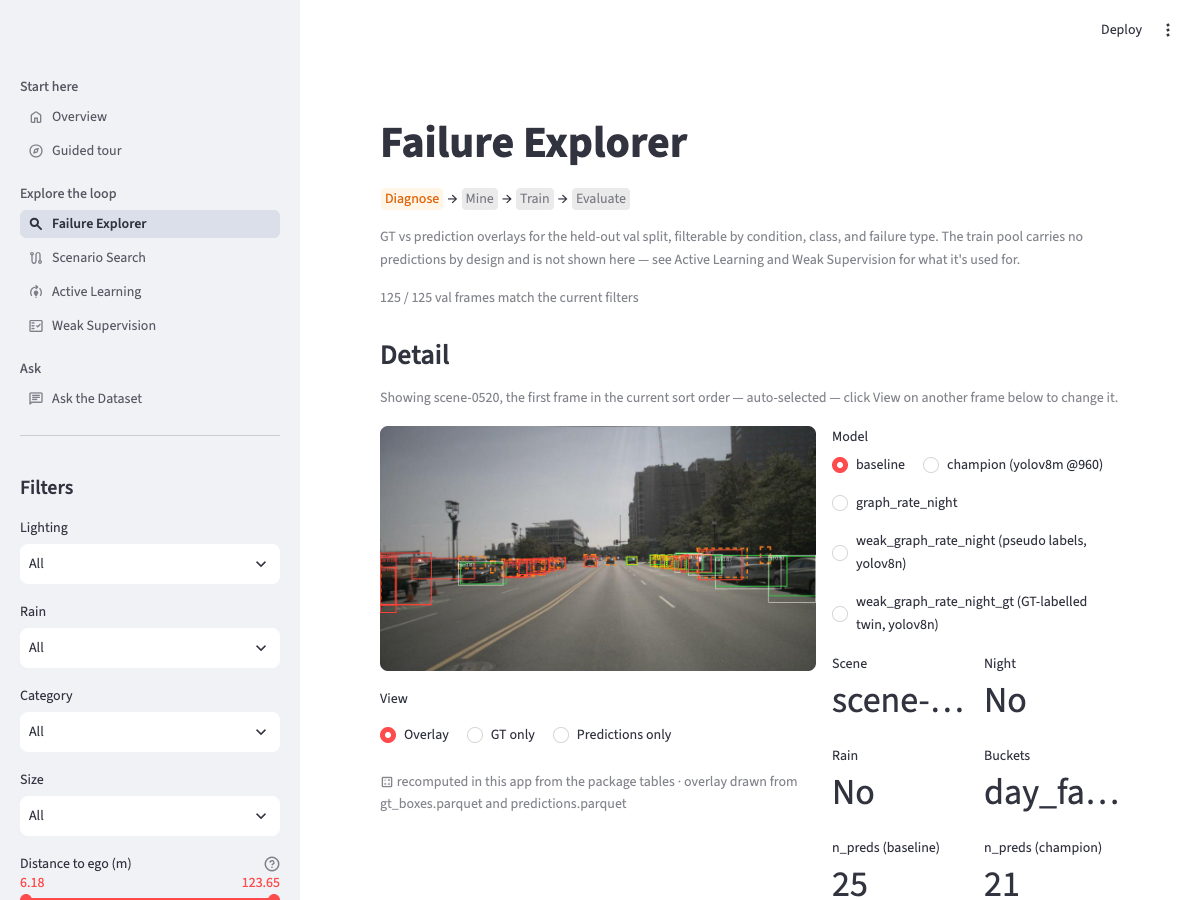
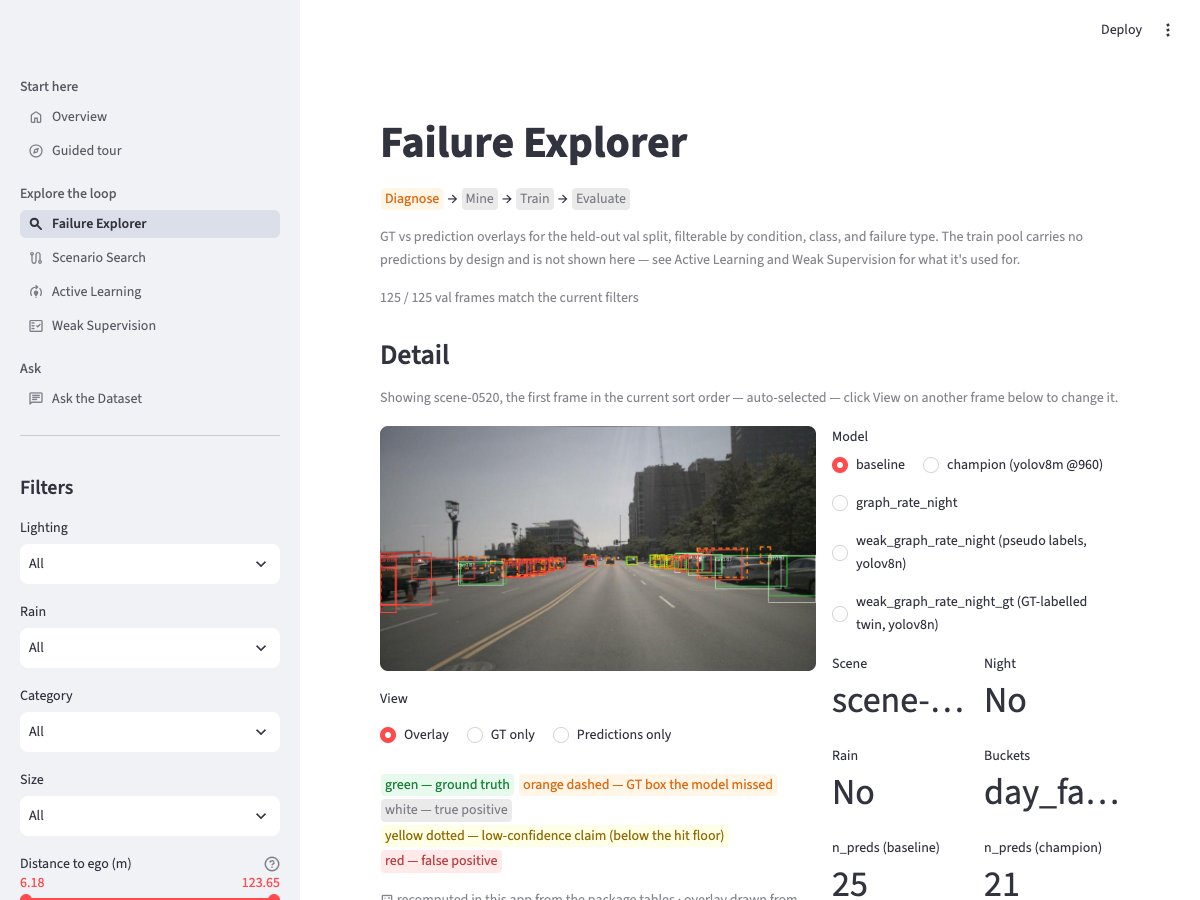
demo: Phase 10 screenshots (story tour, legend sites) + success-walk stamps + README phase row

Changed region(s): [[0.3083, 0.84, 0.6475, 0.9644], [0.3083, 0.9956, 0.6783, 1.0]]

diff --git a/docs/DEMO.md b/docs/DEMO.md
@@ -734,16 +734,16 @@ deployed URL.
 
 | # | Question (DEMO_PLAN.md) | Page | Section / element that answers it | Status |
 |---|---|---|---|---|
-| 1 | What problem does the project solve? | Overview + Guided tour | the loop strip ("Detect weakness → Find useful data → Retrain → Measure impact") and tour step 1, **We found a blind spot** | local: 2026-08-22 · live: pending |
+| 1 | What problem does the project solve? | Overview + Guided tour | the loop strip ("Detect weakness → Find useful data → Retrain → Measure impact") and tour step 1, **We found a blind spot** | local: 2026-08-23 · live: pending |
 | 2 | Where does the baseline perception model fail? | Guided tour + Failure Explorer | tour step 2, **What the failure looks like** (the hero frame, per-model claims, badge legend), and Failure Explorer's **Detail** — now the first block on the page, auto-selected, with the **Model** radio and the GT / Predictions / Overlay toggle beside the image | local: 2026-08-23 · live: pending |
-| 3 | How does the system find difficult data? | Guided tour + Scenario Search | tour step 3, **Where else does this happen?** (the flagship event, and the sentence saying the search matches driving context — not similar-looking images), and the six **preset** buttons + ranked card grid | local: 2026-08-22 · live: pending |
+| 3 | How does the system find difficult data? | Guided tour + Scenario Search | tour step 3, **Where else does this happen?** (the flagship event, and the sentence saying the search matches driving context — not similar-looking images), and the six **preset** buttons + ranked card grid | local: 2026-08-23 · live: pending |
 | 4 | Why is the graph useful? | Scenario Search | the compact `parity_short` line in the event viewer header (visible once an event is opened — flagship 30 events found · SQL 30 / Graph 30 ✓), and the same viewer's **Interactive graph** panel, whose **Reveal the matched path** slider walks Scene → Keyframe → nearest matching objects → Ego pose one step at a time (amber = revealed, hollow = still to come) | local: 2026-08-23 · live: pending |
 | 5 | What does CAN-bus data add? | Scenario Search (+ Overview) | the event viewer's two **CAN curves** beside the frame (speed km/h + longitudinal accel m/s² over t−2…t+2, the rule following the filmstrip slider), the **CAN speed** card in the metric grid, and the filmstrip's own ego-pose readout; Overview's **CAN speed vs ego-motion** card (r), inside the **Dataset scale & data checks** expander | local: 2026-08-23 · live: pending |
 | 6 | How does active learning choose frames? | Guided tour + Active Learning | tour step 4, **What data should we add?** (the reason chips and the one-line selection path, with the `selection_factors` lines inside the **How selection works** fold), and the deep page's **Three ways to pick 1,500 frames** strategy charts plus the **Why was this frame selected?** panel, whose reason chips head the factor lines | local: 2026-08-23 · live: pending |
-| 7 | Did targeted retraining improve performance? | Guided tour + Active Learning | tour steps 5-6, **We changed the training data** (the five-strategy night-Δ chart, its fairness statement and the computed best-intervention sentence) / **Did it fix the failure?** (the side-by-side before/after exemplar and the night-pedestrian gain), plus the deep page's **Every arm, one chart** (13 arms in round order) and **Before / after** exemplars | local: 2026-08-22 · live: pending |
+| 7 | Did targeted retraining improve performance? | Guided tour + Active Learning | tour steps 5-6, **We changed the training data** (the five-strategy night-Δ chart, its fairness statement and the computed best-intervention sentence) / **Did it fix the failure?** (the side-by-side before/after exemplar and the night-pedestrian gain), plus the deep page's **Every arm, one chart** (13 arms in round order) and **Before / after** exemplars | local: 2026-08-23 · live: pending |
 | 8 | How well did VLM-generated supervision work? | Weak Supervision | the retention cards (GT gain retained + verifier retention), **One frame, three views** (what the VLM's counts kept on a train-pool frame, and what the weak-trained checkpoint vs its GT-labelled twin then did on a held-out val frame), and **What the VLM saw** accepted/rejected galleries | local: 2026-08-23 · live: pending |
 | 9 | Why did weak supervision underperform GT? | Weak Supervision | **Where the rest of the gain went** (dropped-frame cost vs label cost), **Where the VLM's counting breaks down** (count MAE per crowding bucket) and **What the verifier's rule selects for** (the crowding bias) | local: 2026-08-23 · live: pending |
-| 10 | How does the project form a closed model-improvement loop? | Guided tour + Active Learning + Weak Supervision | tour step 7, **Closed the loop** — its guarded headline and the three hero cards (frames added / night share vs the random control / night-pedestrian mAP50-95 gain) over the four bordered answers — closed by the persistent loop breadcrumb on every page | local: 2026-08-22 · live: pending |
+| 10 | How does the project form a closed model-improvement loop? | Guided tour + Active Learning + Weak Supervision | tour step 7, **Closed the loop** — its guarded headline and the three hero cards (frames added / night share vs the random control / night-pedestrian mAP50-95 gain) over the four bordered answers — closed by the persistent loop breadcrumb on every page | local: 2026-08-23 · live: pending |
 
 ## Dataset attribution & license
 

diff --git a/README.md b/README.md
@@ -345,7 +345,7 @@ picker after the first PR run).
 | 6c ✅ | Dataset chat | Tool-calling agent (guarded DuckDB SQL + vector search), $0 local Ollama with a Claude-API deploy flip — see DATASET_CHAT.md |
 | 6d ✅ | Active learning | Mined-vs-random controlled retrain: random +0.034 mAP beat similarity-mining +0.016 (diversity wins) — see ACTIVE_LEARNING.md. Rounds 2–3 added six more acquisition arms; best night gain of all nine: `graph_rate_night` **+0.0101 night mAP50-95** |
 | 6e ✅ | Knowledge graph | Neo4j context graph from existing Parquet + vectors; guarded `run_cypher` chat tool + visual exploration; graph-diversity AL arm matched random's +0.034 mAP *and* recovered night (+0.004) where random regressed — see GRAPH.md |
-| Demo 1-9a ✅ | Public demo | Self-contained Streamlit app (`app/demo/`) over a committed 25 MB artifact package: a guided tour plus six story pages, every number derived at build time, recorded chat replay, deployable to Streamlit Community Cloud — see [DEMO.md](docs/DEMO.md) |
+| Demo 1-10 ✅ | Public demo | Self-contained Streamlit app (`app/demo/`) over a committed 25 MB artifact package: a story-led guided tour ("From model failure to better training data") plus six deep pages, every number derived at build time, recorded chat replay, deployable to Streamlit Community Cloud — see [DEMO.md](docs/DEMO.md) |
 
 | B ✅ | Geo-spatial + CAN bus | Ego pose, all 1.17M 3D boxes, and keyframe-aligned CAN dynamics → Parquet, DuckDB, and Neo4j `EgoPose`/`ObjectObservation` nodes. *"Hard braking with a pedestrian within 10 m"* answers **30, identically in SQL and Cypher**; CAN speed cross-checks against GT pose at r = 0.999 — see [DATA.md](docs/DATA.md), [GRAPH.md](docs/GRAPH.md) |
 
